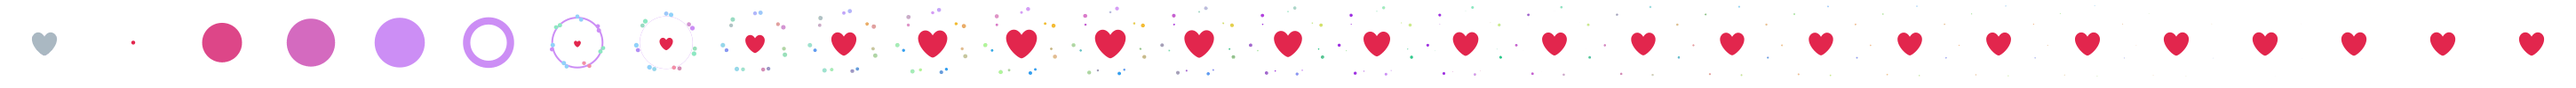
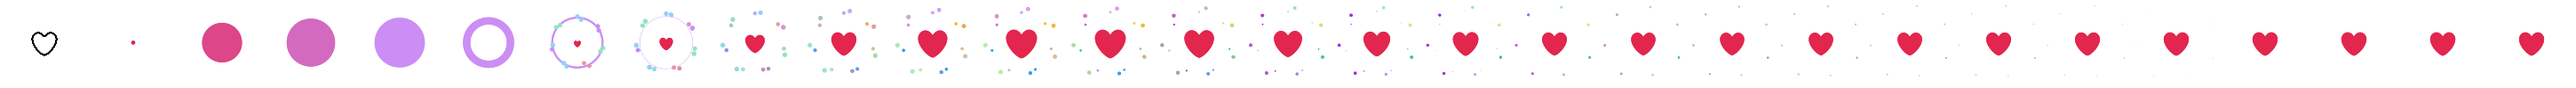
se cambia fondo del corazon de likes para que resalte mas sobre la imagenes

Changed region(s): [[0.0, 0.36, 0.031, 0.63]]

diff --git a/css/gastronomia.css b/css/gastronomia.css
@@ -259,7 +259,7 @@ main {
 }
 
 .like-button .heart-bg:hover {
-  background: rgba(255, 192, 200, 0.7);
+  background: rgba(255, 255, 255, 0.7);
   
 }
 
@@ -283,7 +283,7 @@ main {
     background-position: right;
   }
 }
-/* Terina icono corazon */
+/* Termina icono corazon */
 
 .ContenedorPrincipal{
   display: flex;
